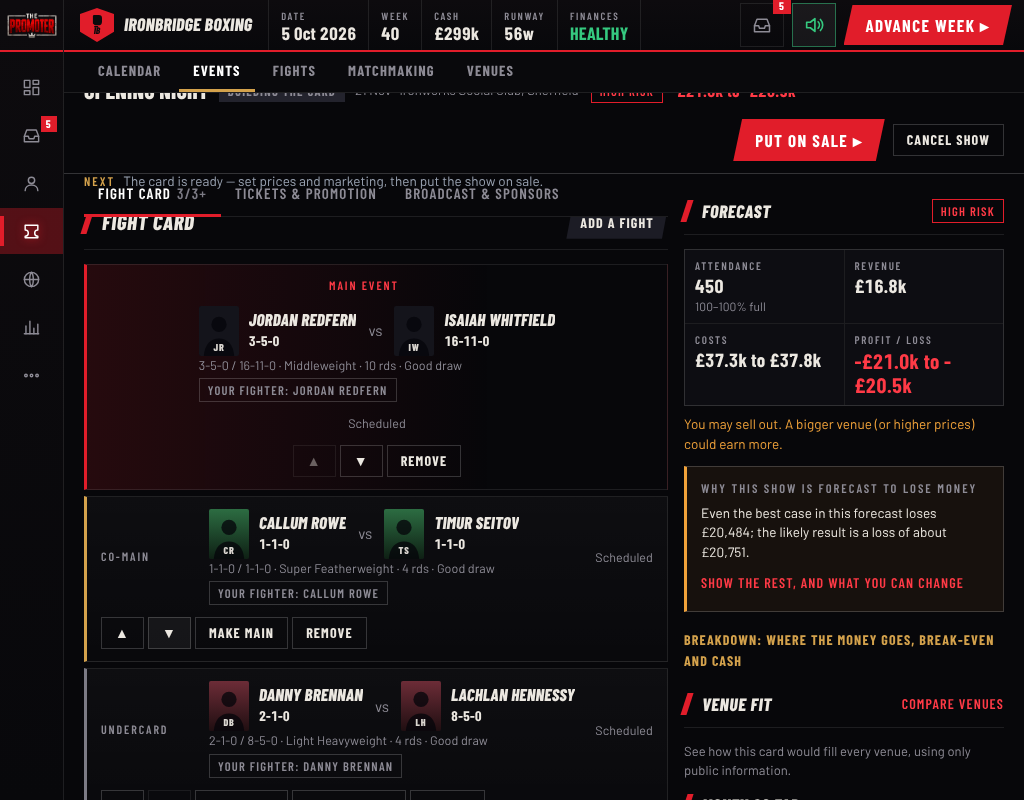
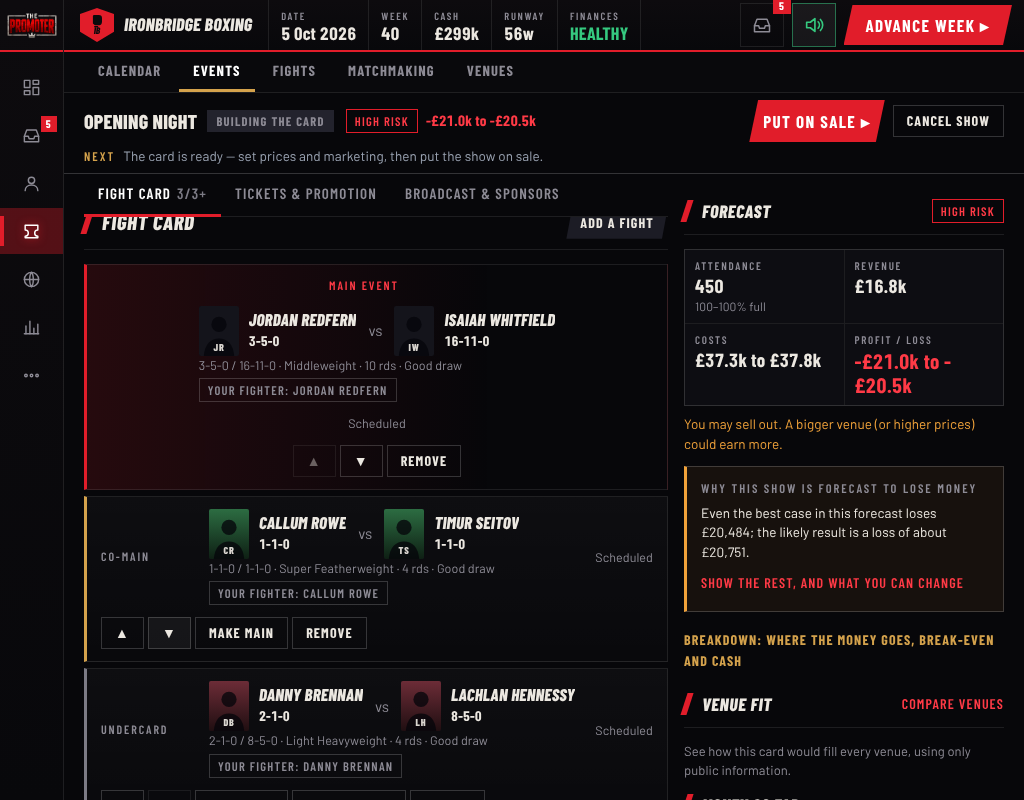
Desktop UX phase 2: report, before/after screenshots
Claude-Session: https://claude.ai/code/session_01JVWickjBzBGNfmRYQa16tf

Changed region(s): [[0.0625, 0.0938, 0.5312, 0.25], [0.7188, 0.0938, 0.9688, 0.2188], [0.6875, 0.0938, 0.7188, 0.125]]

diff --git a/docs/DESKTOP_UX_PHASE2.md b/docs/DESKTOP_UX_PHASE2.md
@@ -1,0 +1,30 @@
+# Desktop UX phase 2 — workflow and information hierarchy
+
+Presentation only. No engine, store, persistence or economy code was changed (`git diff HEAD~3 --stat -- src/engine src/store` is empty). Screenshots: `docs/ux-phase2/before-*` and `after-*` (1280, 1024, 390; same careers: `p54-played` for Overview/Matchmaking/Scouting, `p7-ready` for the three event tabs).
+
+## What changed and why
+**Event workspace** (`EventPage.tsx`, `desktop.css`). A sticky event bar under the section tabs holds the event name, status, date and venue, risk and profit forecast, a one-line "Next" instruction and the primary action for the stage (Add a fight → Put on sale → Prices & marketing) plus Cancel. The three workspace tabs are sticky under it and show the card count; the selected tab is remembered per event (leave for Matchmaking and return to the same tab). The forecast column shows Attendance, Revenue, Costs and Profit/loss first; the short reason for a forecast loss stays visible; the rest of the explanation and the levers sit behind "Show the rest, and what you can change", and the cost table, break-even and cash behind "Breakdown". Nothing was removed and no number is computed differently; the sale confirmation still shows the full numbers. The forecast column stays in view while editing (it un-sticks when a breakdown is opened, so it can never be taller than a scrollable window). The hero no longer repeats the name, venue, status or stats that are in the bar; media and advisor notes moved below the workspace; Broadcast & sponsors opens with a summary of what each deal is forecast to bring. Phones keep the original order, actions and single column.
+**Matchmaking** (`MatchmakingScreen.tsx`). The eleven-card fighter picker is now a compact two-line list (name, status, division/record), so the opponents table starts at the top of the page. In the table, unavailable opponents are dimmed and say why, the best fit is marked, comparing marks the row, and the action column stays at the right edge while wide tables scroll (previously "Approach" was off-screen). Existing eligibility, assessment and booking logic are untouched.
+**Scouting** (`ScoutingScreen.tsx`, `FighterTable.tsx`). Free agents / Under contract / Everyone is a visible control with a one-line legend for Intel, "~" and estimates; the reputation meter column was dropped from the market table; identity lines stay on one line; Scout/Offer stay at the right edge. Knowledge-layer rendering is unchanged.
+**Overview** (`Dashboard.tsx` CSS only). The Cash and Roster tiles (already in the top bar and rail) are hidden on desktop; the next fight leads the right rail; "Manage event" sits at the top of the next-event panel; inbox and "what next" sit side by side.
+**Icon rail at 1024.** Each item has an accessible name, a tooltip on hover and keyboard focus, a stronger active state and `aria-current`.
+
+## Vertical scrolling (page height in viewports)
+| screen | 1280 before → after | 1024 before → after | 390 before → after |
+|---|---|---|---|
+| overview | 3.95 → 3.78 | 3.69 → 3.85 | 7.4 → 7.4 |
+| matchmaking | 3.97 → 2.87 | 3.98 → 2.89 | 10.2 → 10.22 |
+| scouting | 5.06 → 3.9 | 5.07 → 3.9 | 15.65 → 14.38 |
+| event-top | 5.34 → 2.48 | 5.53 → 2.52 | 11.37 → 8.39 |
+| event-card | 5.34 → 2.48 | 5.53 → 2.52 | – → – |
+| event-tickets | 5.34 → 2.97 | 6.04 → 3.45 | – → – |
+| event-broadcast | 5.34 → 2.16 | 5.11 → 2.25 | – → – |
+
+## Verification actually run
+* `npx tsc --noEmit` clean; `npx vitest run`: 55 files passed, 2 skipped; 827 tests passed, 5 skipped, 0 failed.
+* New `scripts/browser/ux2-checks.mjs`: 75 passed, 0 failed (1280 and 1024: event bar, Put on sale visible and reachable after scrolling, forecast numbers first, loss reason / levers / breakdown disclosure, tab memory, sale confirmation and "Review Event", matchmaking picker, best fit, unavailable reasons, compare, Approach opens a deal, scouting scope and "~", no hidden attribute names, overview Manage event/Needs you in the first viewport, rail names/tooltips/aria-current/keyboard focus; 390: bar hidden, Put on sale reachable, no overflow, bottom bar present).
+* Existing browser suites re-run on this build: phase7-ui 150, phase9-ui 89, phase10-ui 100, phase60-a11y 174, phase510-ui 82, phase410 30, phase59-ui 28, phase60-ui 37, phase63-ui 45, phase64-ui 71, phase5 47, phase47 71, phase46c 57, phase48 all, phase54-business 221, phase54-championship 173, phase54-negotiation 113, phase54-venues 116, phase54-walkthrough 82, phase54b 43, phase54c 69, phase54d 27, phase56 33, phase58 69 — all with 0 failures; phase8 walkthrough (regional) completes at 1280 and 390.
+* Scripts updated for deliberate changes (not weakened): phase9-ui opens the new disclosure controls and uses the visible Put on sale; phase60-ui expects three desktop tiles; phase8 uses the visible Put on sale. `phase49b.mjs` still times out at its replay-speed step; it does the same on the commit before the redesign.
+
+## Remaining usability problems
+Overview is still ~3.8 screens (the lower sections remain a long list); the editable event page is ~2.5–3.5 screens at 1280/1024; Scouting is still 3.9 screens (a 100-row market); the Fight card rows are cramped in the left column at 1024; Matchmaking and Scouting tables still scroll sideways at 1280/1024 (actions are pinned, secondary columns are not); the 1024 Scouting table hides Intel/Status/Ask until scrolled; the hero's "Tale of the tape" block is still large on event pages.
